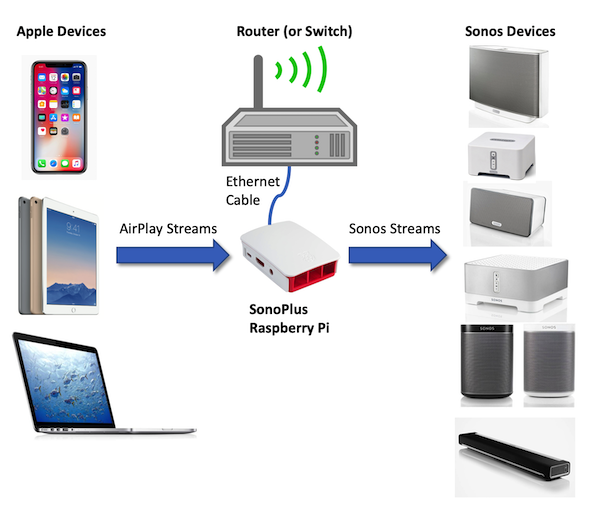
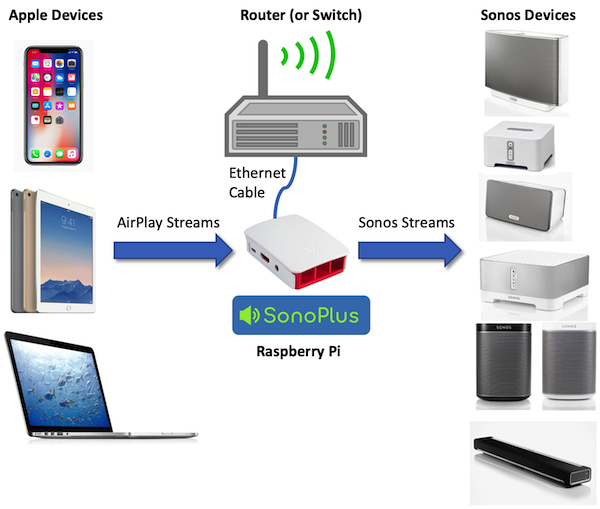
Update main diagram

diff --git a/sonoplus-faq/index.md b/sonoplus-faq/index.md
@@ -19,11 +19,13 @@ SonoPlus is an 'appliance', and no end-user configuration or management is requi
 
 ## How do I use SonoPlus AirPlay?
 
-Your older Sonos speakers simply appear as new AirPlay targets, and they can be used and controlled exactly like normal AirPlay speakers. The SonoPlus speakers are denoted by a '+' after their Sonos room name, e.g.:
+Your older Sonos players appear as new AirPlay speakers, and they can be used and controlled exactly like any other AirPlay devices. The SonoPlus speakers are denoted by a '+' after their Sonos room name, e.g.:
 
 ![SonoPlus](/images/AirPlayMenu_Smaller.png)
 
 SonoPlus supports multiple simultaneous AirPlay streams from different Apple devices to different Sonos speakers, and works with speakers that are grouped via the Sonos app.
+
+Speaker volume, play/pause, next/previous track are all controlled by the sending device, as with any other AirPlay device.
 
 ## How does the SonoPlus AirPlay feature work?
 
